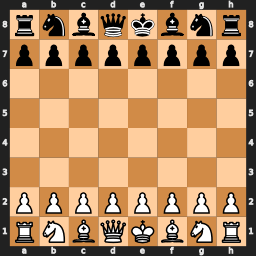
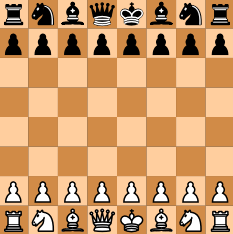
First primitive board detection, woohoo!

diff --git a/main.py b/main.py
@@ -15,34 +15,46 @@ from reportlab.graphics import renderPM
 import imageio
 
 def main():
-    image_color = load_image('images/standalone_chess_pieces.png')
-    display_image(image_color, "Original image")
+    image_color = load_image('images/all_standalone_chess_pieces.png')
+    #image_color = load_image('./board.png')
+    #display_image(image_color, "Original image")
 
     img = image_bin(image_gray(image_color))
-    display_image(img, "Binary image")
+    #display_image(img, "Binary image")
 
-    img_bin = erode(dilate(img))
-    display_image(img_bin, "Dilated and eroded")
+    #img_bin = erode(dilate(img))
 
-    selected_regions, numbers = select_roi(image_color.copy(), img_bin)
-    display_image(selected_regions, "Regions of interest")
+    #display_image(img_bin, "Dilated and eroded")
 
-    alphabet = ['pawn', 'king', 'knight', 'bishop', 'rook', 'queen']
+    img = erode(img, (3, 3))
+    img = dilate(img, (3, 3))
+    #display_image(img, "Transformed")
 
-    inputs = prepare_for_ann(numbers)
+    marked_image, region_tuples = select_roi(image_color.copy(), img)
+    #display_image(selected_regions, "Regions of interest")
+
+    alphabet = ['black_queen', 'black_king', 'black_bishop', 'black_knight', 'black_rook', 'black_pawn',
+                'white_queen', 'white_king', 'white_bishop', 'white_knight', 'white_rook', 'white_pawn']
+
+    inputs = prepare_for_ann(region[0] for region in region_tuples)
     outputs = convert_output(alphabet)
-    ann = create_ann(output_size=6)
+    ann = create_ann(output_size=12)
     ann = train_ann(ann, inputs, outputs, epochs=2000)
 
     test_color = load_image('./board.png')
     test = image_bin(image_gray(test_color))
-    test_bin = erode(dilate(test))
-    selected_test, test_numbers = select_roi(test_color.copy(), test_bin)
-    display_image(selected_test, 'Test image')
+    test = erode(test, (3, 3))
+    test = dilate(test, (3, 3))
 
-    test_inputs = prepare_for_ann(test_numbers)
+    marked_image, region_tuples = select_roi(test_color.copy(), test)
+    display_image(marked_image, 'Marked test image')
+
+    test_inputs = prepare_for_ann(region[0] for region in region_tuples)
     result = ann.predict(np.array(test_inputs, np.float32))
-    print(display_result(result, alphabet))
+
+    print("DETECTED CHESS PIECES:")
+    for i in range(len(test_inputs)):
+        print(f"{alphabet[winner(result[i])]}: [ {region_tuples[i][1]} ]")
 
 def numbers_example():
     image_color = load_image('images/brojevi.png')
@@ -87,26 +99,26 @@ def image_gray(image):
 def image_bin(image_gs):
     height, width = image_gs.shape[0:2]
     image_binary = np.ndarray((height, width), dtype=np.uint8)
-    ret, image_bin = cv2.threshold(image_gs, 127, 255, cv2.THRESH_BINARY)
+    ret, image_bin = cv2.threshold(image_gs, 90, 255, cv2.THRESH_BINARY)
     return image_bin
 
 def invert(image):
     return 255-image
 
 def display_image(image, title, color=False):
-    plt.title = title
+    plt.title(title)
     if color:
         plt.imshow(image)
     else:
         plt.imshow(image, 'gray')
     plt.show()
 
-def dilate(image):
-    kernel = np.ones((3, 3)) # strukturni element 3x3 blok
+def dilate(image, kernel_block=(3,3)):
+    kernel = np.ones(kernel_block) # strukturni element 3x3 blok
     return cv2.dilate(image, kernel, iterations=1)
 
-def erode(image):
-    kernel = np.ones((3, 3)) # strukturni element 3x3 blok
+def erode(image, kernel_block=(3,3)):
+    kernel = np.ones(kernel_block) # strukturni element 3x3 blok
     return cv2.erode(image, kernel, iterations=1)
 
 def resize_region(region):
@@ -120,7 +132,7 @@ def select_roi(image_orig, image_bin):
     for contour in contours:
         x, y, w, h = cv2.boundingRect(contour)  # koordinate i velicina granicnog pravougaonika
         area = cv2.contourArea(contour)
-        if area > 100 and h < 50 and h > 10 and w > 10:
+        if w > 15 and h > 18 and w < 60 and h < 60:
             # kopirati [y:y+h+1, x:x+w+1] sa binarne slike i smestiti u novu sliku
             # oznaciti region pravougaonikom na originalnoj slici sa rectangle funkcijom
             region = image_bin[y:y + h + 1, x:x + w + 1]
@@ -128,8 +140,8 @@ def select_roi(image_orig, image_bin):
             cv2.rectangle(image_orig, (x, y), (x + w, y + h), (0, 255, 0), 2)
 
     regions_array = sorted(regions_array, key=lambda x: x[1][0])
-    sorted_regions = [region[0] for region in regions_array]
-    return image_orig, sorted_regions
+    #sorted_regions = [region[0] for region in regions_array]
+    return image_orig, regions_array
 
 def scale_to_range(image):
     return image/255
@@ -176,7 +188,7 @@ def winner(output):
 def display_result(outputs, alphabet):
     result = []
     for output in outputs:
-        result.append(alphabet[winner(output)])
+        result.append(f"{alphabet[winner(output)]}:")
     return result
 
 
